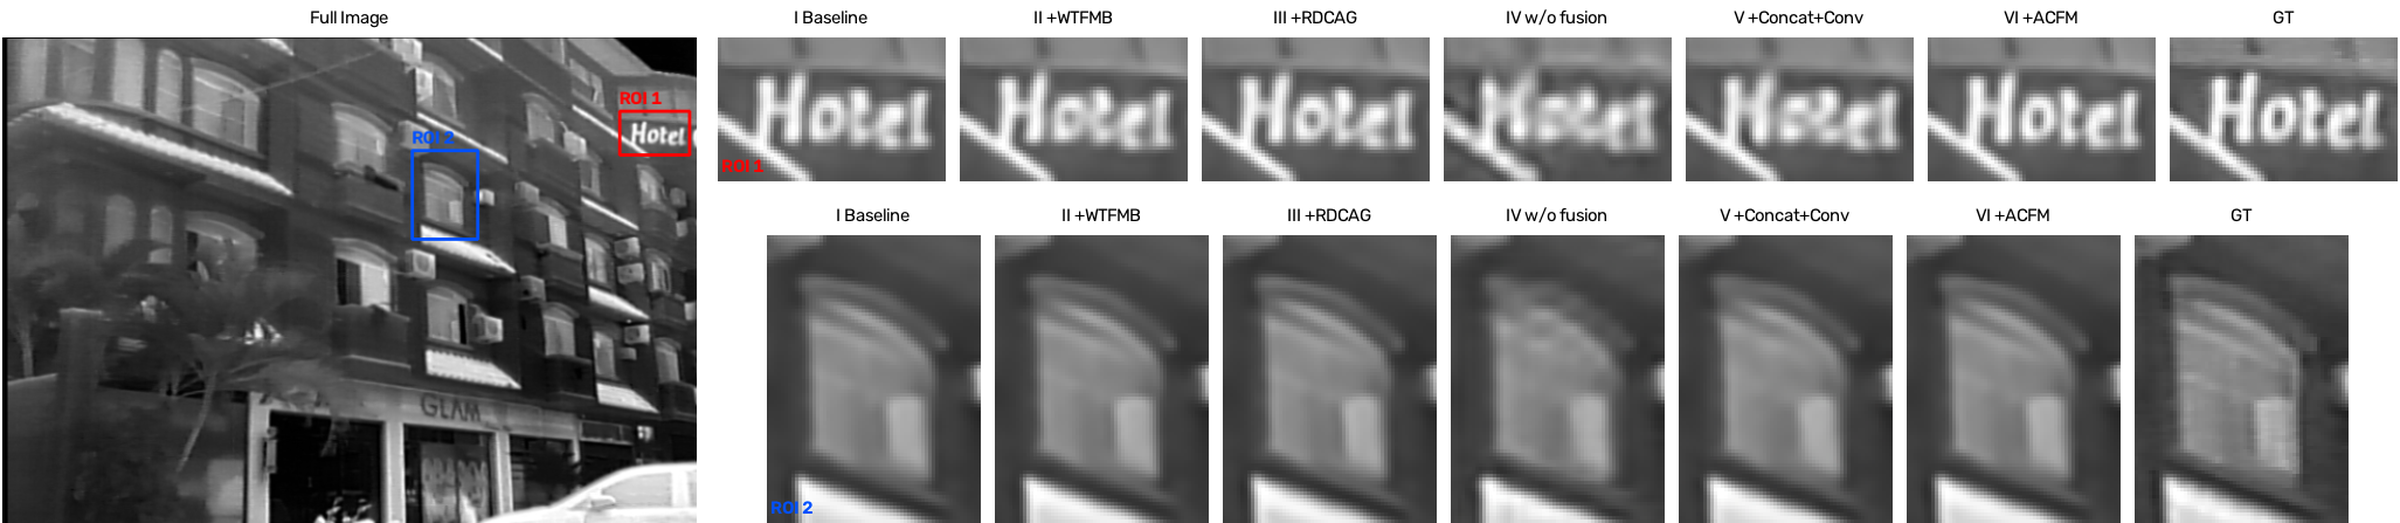
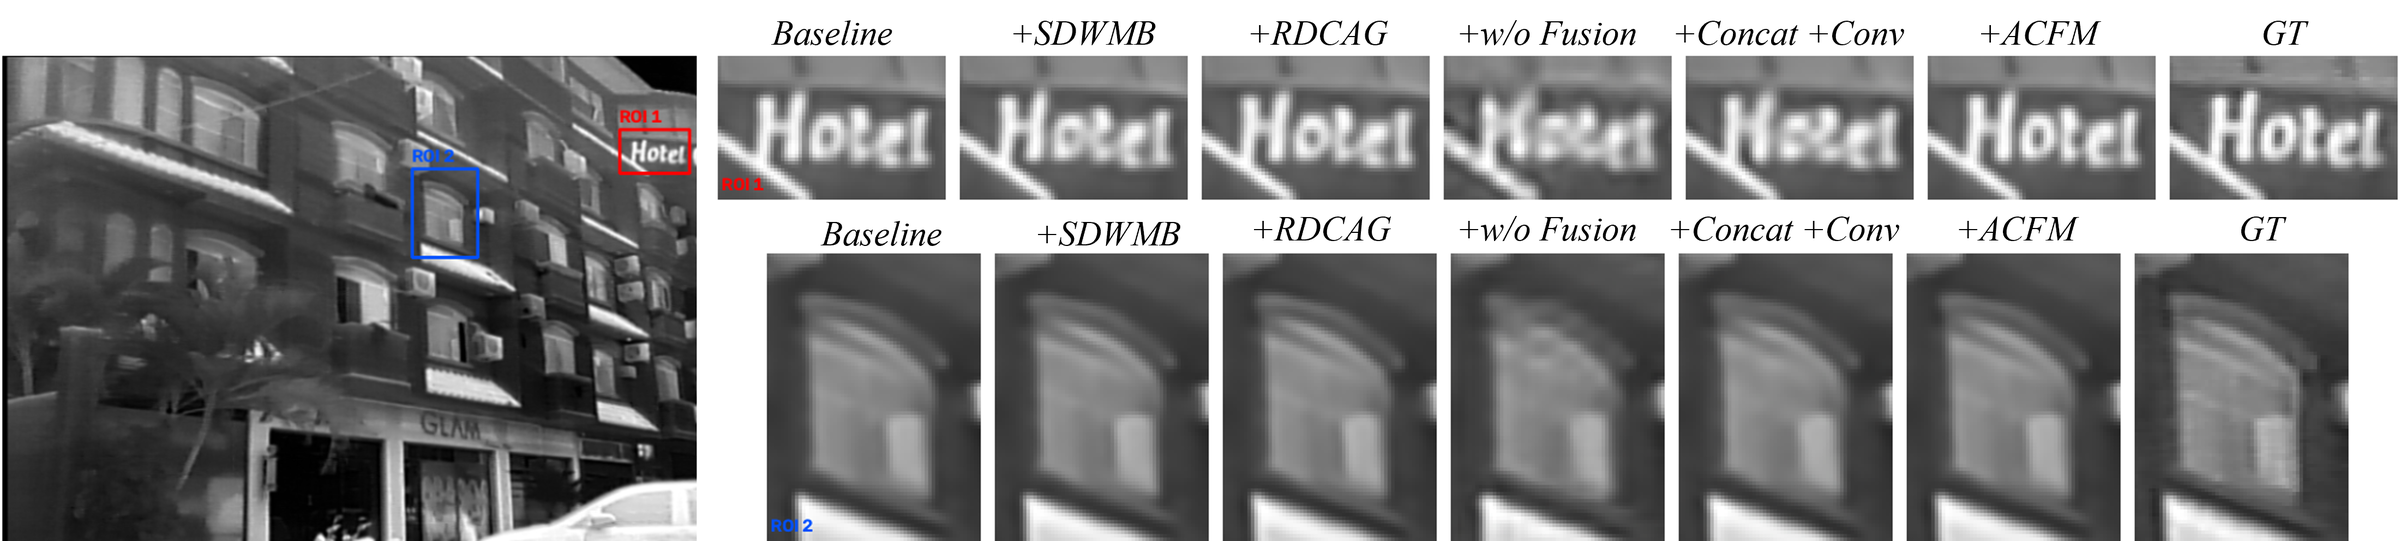
Align README with final SDWMB results

diff --git a/README.md b/README.md
@@ -33,7 +33,7 @@ WDTFuSR first refines infrared features with subband-decoupled wavelet modulatio
 
 ## Results
 
-Mean PSNR/SSIM on CIDIS-Test. Learning-based results are averaged over three runs.
+Mean PSNR/SSIM on CIDIS-Test. Learning-based results are averaged over three independent runs; the WDTFuSR row also reports standard deviation.
 
 | Method | x2 PSNR | x2 SSIM | x4 PSNR | x4 SSIM | x6 PSNR | x6 SSIM |
 | --- | ---: | ---: | ---: | ---: | ---: | ---: |
@@ -54,7 +54,7 @@ Mean PSNR/SSIM on CIDIS-Test. Learning-based results are averaged over three run
 | SwinFuSR | 43.94 | 0.9906 | 35.89 | 0.9510 | 33.02 | 0.9164 |
 | MSFFCT | 44.03 | 0.9907 | 35.97 | 0.9518 | 33.16 | 0.9180 |
 | SwinPaste | 44.11 | 0.9909 | 36.10 | 0.9527 | 33.29 | 0.9198 |
-| **WDTFuSR** | **44.42** | **0.9912** | **36.46** | **0.9550** | **33.68** | **0.9234** |
+| **WDTFuSR** | **44.42 &plusmn; 0.04** | **0.9912 &plusmn; 0.0001** | **36.46 &plusmn; 0.03** | **0.9550 &plusmn; 0.0003** | **33.68 &plusmn; 0.05** | **0.9234 &plusmn; 0.0004** |
 
 ## Experiments
 
@@ -95,6 +95,8 @@ Downstream semantic segmentation comparison on MSRS:
 ![Semantic segmentation comparison](images/semantic_results.png)
 
 ### Guide Robustness
+
+The robustness analyses below use the selected fixed-seed configuration; the main benchmark above reports the final three-run mean.
 
 Visible-guide translation:
 
